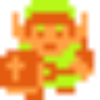
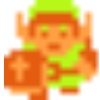
Added basic animation

diff --git a/SimpleRPG/view/SimpleRPGStartPanel.java b/SimpleRPG/view/SimpleRPGStartPanel.java
@@ -23,14 +23,19 @@ public class SimpleRPGStartPanel extends JPanel
 	private SpringLayout startLayout;
 	private JLabel userCharacter;
 	private ImageIcon userCharacterDown = new ImageIcon(SimpleRPGStartPanel.class.getResource("/SimpleRPG/view/images/rpg_character_down.png"));
+	private ImageIcon userCharacterDownTwo = new ImageIcon(SimpleRPGStartPanel.class.getResource("/SimpleRPG/view/images/rpg_character_down_two.png"));
 	private ImageIcon userCharacterUp = new ImageIcon(SimpleRPGStartPanel.class.getResource("/SimpleRPG/view/images/rpg_character_up.png"));
+	private ImageIcon userCharacterUpTwo = new ImageIcon(SimpleRPGStartPanel.class.getResource("/SimpleRPG/view/images/rpg_character_up_two.png"));
 	private ImageIcon userCharacterLeft = new ImageIcon(SimpleRPGStartPanel.class.getResource("/SimpleRPG/view/images/rpg_character_left.png"));
+	private ImageIcon userCharacterLeftTwo = new ImageIcon(SimpleRPGStartPanel.class.getResource("/SimpleRPG/view/images/rpg_character_left_Two.png"));
 	private ImageIcon userCharacterRight = new ImageIcon(SimpleRPGStartPanel.class.getResource("/SimpleRPG/view/images/rpg_character_right.png"));
+	private ImageIcon userCharacterRightTwo = new ImageIcon(SimpleRPGStartPanel.class.getResource("/SimpleRPG/view/images/rpg_character_right_Two.png"));
 	private Color darkGreen = new Color(50, 150, 30);
 	private boolean wPressed = false;
 	private boolean aPressed = false;
 	private boolean sPressed = false;
 	private boolean dPressed = false;
+	private int frameCounter = 0;
 
 	public SimpleRPGStartPanel(SimpleRPGController baseController)
 	{
@@ -44,7 +49,6 @@ public class SimpleRPGStartPanel extends JPanel
 		setupPanel();
 		setupLayout();
 		setupListners();
-		setUpTimer();
 	}
 
 	private void setupPane()
@@ -117,124 +121,122 @@ public class SimpleRPGStartPanel extends JPanel
 			@Override
 			public void keyTyped(KeyEvent e)
 			{
-//				if ((wPressed) && (aPressed))
-//				{
-//					userCharacter.setLocation(userCharacter.getX() - 50, (userCharacter.getY() - 50));
-//				}
-//				else if ((wPressed) && (dPressed))
-//				{
-//					userCharacter.setLocation(userCharacter.getX() + 50, (userCharacter.getY() - 50));
-//				}
-//				else if ((sPressed) && (aPressed))
-//				{
-//					userCharacter.setLocation(userCharacter.getX() - 50, (userCharacter.getY() + 50));
-//				}
-//				else if ((sPressed) && (dPressed))
-//				{
-//					userCharacter.setLocation(userCharacter.getX() + 50, (userCharacter.getY() + 50));
-//				}
-//				else if (wPressed)
-//				{
-//					userCharacter.setLocation(userCharacter.getX(), (userCharacter.getY() - 50));
-//					userCharacter.setIcon(userCharacterUp);
-//				}
-//				else if (aPressed)
-//				{
-//					userCharacter.setLocation(userCharacter.getX() - 50, (userCharacter.getY()));
-//					userCharacter.setIcon(userCharacterLeft);
-//				}
-//				else if (sPressed)
-//				{
-//					userCharacter.setLocation(userCharacter.getX(), (userCharacter.getY() + 50));
-//					userCharacter.setIcon(userCharacterDown);
-//				}
-//				else if (dPressed)
-//				{
-//					userCharacter.setLocation(userCharacter.getX() + 50, (userCharacter.getY()));
-//					userCharacter.setIcon(userCharacterRight);
-//				}
 
-				// if (e.getKeyChar() == 'w')
-				// {
-				// userCharacter.setLocation(userCharacter.getX(),
-				// (userCharacter.getY() - 50));
-				// userCharacter.setIcon(userCharacterUp);
-				// }
-				// else if (e.getKeyChar() == 'a')
-				// {
-				// userCharacter.setLocation(userCharacter.getX() - 50,
-				// (userCharacter.getY()));
-				// userCharacter.setIcon(userCharacterLeft);
-				// }
-				// else if (e.getKeyChar() == 's')
-				// {
-				// userCharacter.setLocation(userCharacter.getX(),
-				// (userCharacter.getY() + 50));
-				// userCharacter.setIcon(userCharacterDown);
-				// }
-				// else if (e.getKeyChar() == 'd')
-				// {
-				// userCharacter.setLocation(userCharacter.getX() + 50,
-				// (userCharacter.getY()));
-				// userCharacter.setIcon(userCharacterRight);
-				// }
 			}
 
 		});
-		
-		
 
-	}
-
-	private void setUpTimer()
-	{
+		ActionListener update = new ActionListener()
+		{
+			@Override
+			public void actionPerformed(ActionEvent e)
+			{
+				if ((wPressed) && (aPressed))
+				{
+					userCharacter.setLocation(userCharacter.getX() - 20, (userCharacter.getY() - 20));
+					if(frameCounter <= 4)
+					{
+						userCharacter.setIcon(userCharacterUp);
+					}
+					else if(frameCounter > 4)
+					{
+						userCharacter.setIcon(userCharacterUpTwo);
+					}
+				}
+				else if ((wPressed) && (dPressed))
+				{
+					userCharacter.setLocation(userCharacter.getX() + 20, (userCharacter.getY() - 20));
+					if(frameCounter <= 4)
+					{
+						userCharacter.setIcon(userCharacterUp);
+					}
+					else if(frameCounter > 4)
+					{
+						userCharacter.setIcon(userCharacterUpTwo);
+					}
+				}
+				else if ((sPressed) && (aPressed))
+				{
+					userCharacter.setLocation(userCharacter.getX() - 20, (userCharacter.getY() + 20));
+					if(frameCounter <= 4)
+					{
+						userCharacter.setIcon(userCharacterDown);
+					}
+					else if(frameCounter > 4)
+					{
+						userCharacter.setIcon(userCharacterDownTwo);
+					}
+				}
+				else if ((sPressed) && (dPressed))
+				{
+					userCharacter.setLocation(userCharacter.getX() + 20, (userCharacter.getY() + 20));
+					if(frameCounter <= 4)
+					{
+						userCharacter.setIcon(userCharacterDown);
+					}
+					else if(frameCounter > 4)
+					{
+						userCharacter.setIcon(userCharacterDownTwo);
+					}
+				}
+				else if (wPressed)
+				{
+					userCharacter.setLocation(userCharacter.getX(), (userCharacter.getY() - 20));
+					if(frameCounter <= 4)
+					{
+						userCharacter.setIcon(userCharacterUp);
+					}
+					else if(frameCounter > 4)
+					{
+						userCharacter.setIcon(userCharacterUpTwo);
+					}
+					
+				}
+				else if (aPressed)
+				{
+					userCharacter.setLocation(userCharacter.getX() - 20, (userCharacter.getY()));
+					if(frameCounter <= 4)
+					{
+						userCharacter.setIcon(userCharacterLeft);
+					}
+					else if(frameCounter > 4)
+					{
+						userCharacter.setIcon(userCharacterLeftTwo);
+					}
+					
+				}
+				else if (sPressed)
+				{
+					userCharacter.setLocation(userCharacter.getX(), (userCharacter.getY() + 20));
+					if(frameCounter <= 4)
+					{
+						userCharacter.setIcon(userCharacterDown);
+					}
+					else if(frameCounter > 4)
+					{
+						userCharacter.setIcon(userCharacterDownTwo);
+					}
+				}
+				else if (dPressed)
+				{
+					userCharacter.setLocation(userCharacter.getX() + 20, (userCharacter.getY()));
+					if(frameCounter <= 4)
+					{
+						userCharacter.setIcon(userCharacterRight);
+					}
+					else if(frameCounter > 4)
+					{
+						userCharacter.setIcon(userCharacterRightTwo);
+					}
+				}
+				
+				frameCounter++;
+				frameCounter = frameCounter % 10;
+			}
+		};
+		
 		Timer myTimer = new Timer(100, update);
 		myTimer.setRepeats(true);
 		myTimer.start();
-
 	}
-
-	ActionListener update = new ActionListener()
-	{
-		@Override
-		public void actionPerformed(ActionEvent e)
-		{
-			if ((wPressed) && (aPressed))
-			{
-				userCharacter.setLocation(userCharacter.getX() - 20, (userCharacter.getY() - 20));
-			}
-			else if ((wPressed) && (dPressed))
-			{
-				userCharacter.setLocation(userCharacter.getX() + 20, (userCharacter.getY() - 20));
-			}
-			else if ((sPressed) && (aPressed))
-			{
-				userCharacter.setLocation(userCharacter.getX() - 20, (userCharacter.getY() + 20));
-			}
-			else if ((sPressed) && (dPressed))
-			{
-				userCharacter.setLocation(userCharacter.getX() + 20, (userCharacter.getY() + 20));
-			}
-			else if (wPressed)
-			{
-				userCharacter.setLocation(userCharacter.getX(), (userCharacter.getY() - 20));
-				userCharacter.setIcon(userCharacterUp);
-			}
-			else if (aPressed)
-			{
-				userCharacter.setLocation(userCharacter.getX() - 20, (userCharacter.getY()));
-				userCharacter.setIcon(userCharacterLeft);
-			}
-			else if (sPressed)
-			{
-				userCharacter.setLocation(userCharacter.getX(), (userCharacter.getY() + 20));
-				userCharacter.setIcon(userCharacterDown);
-			}
-			else if (dPressed)
-			{
-				userCharacter.setLocation(userCharacter.getX() + 20, (userCharacter.getY()));
-				userCharacter.setIcon(userCharacterRight);
-			}
-		}
-	};
 }
